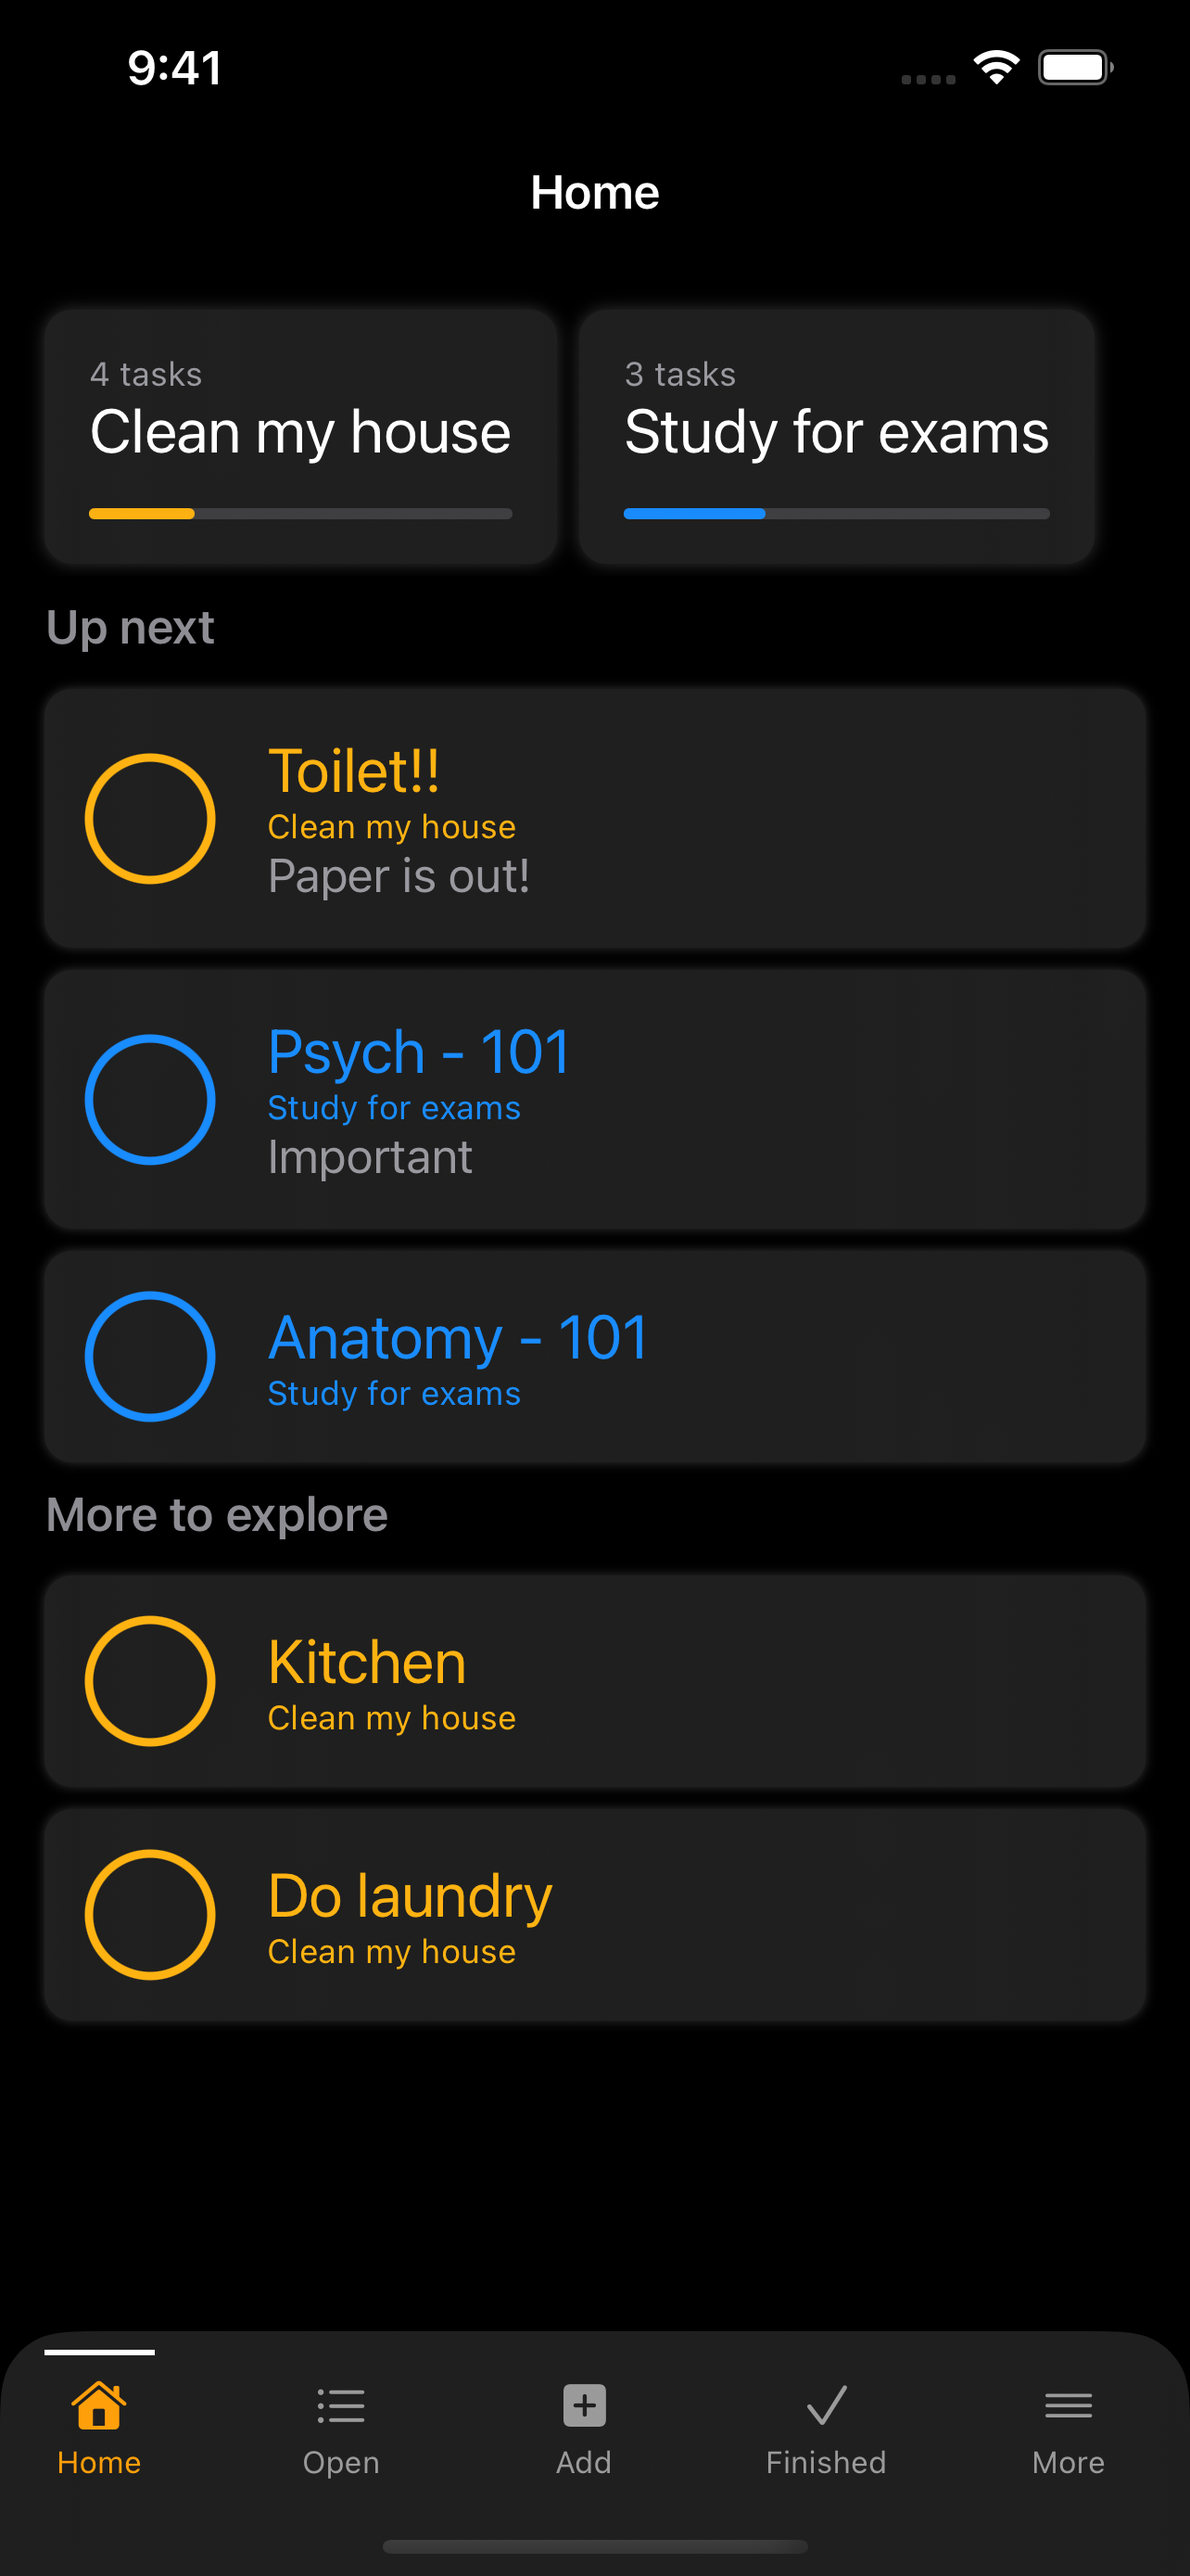
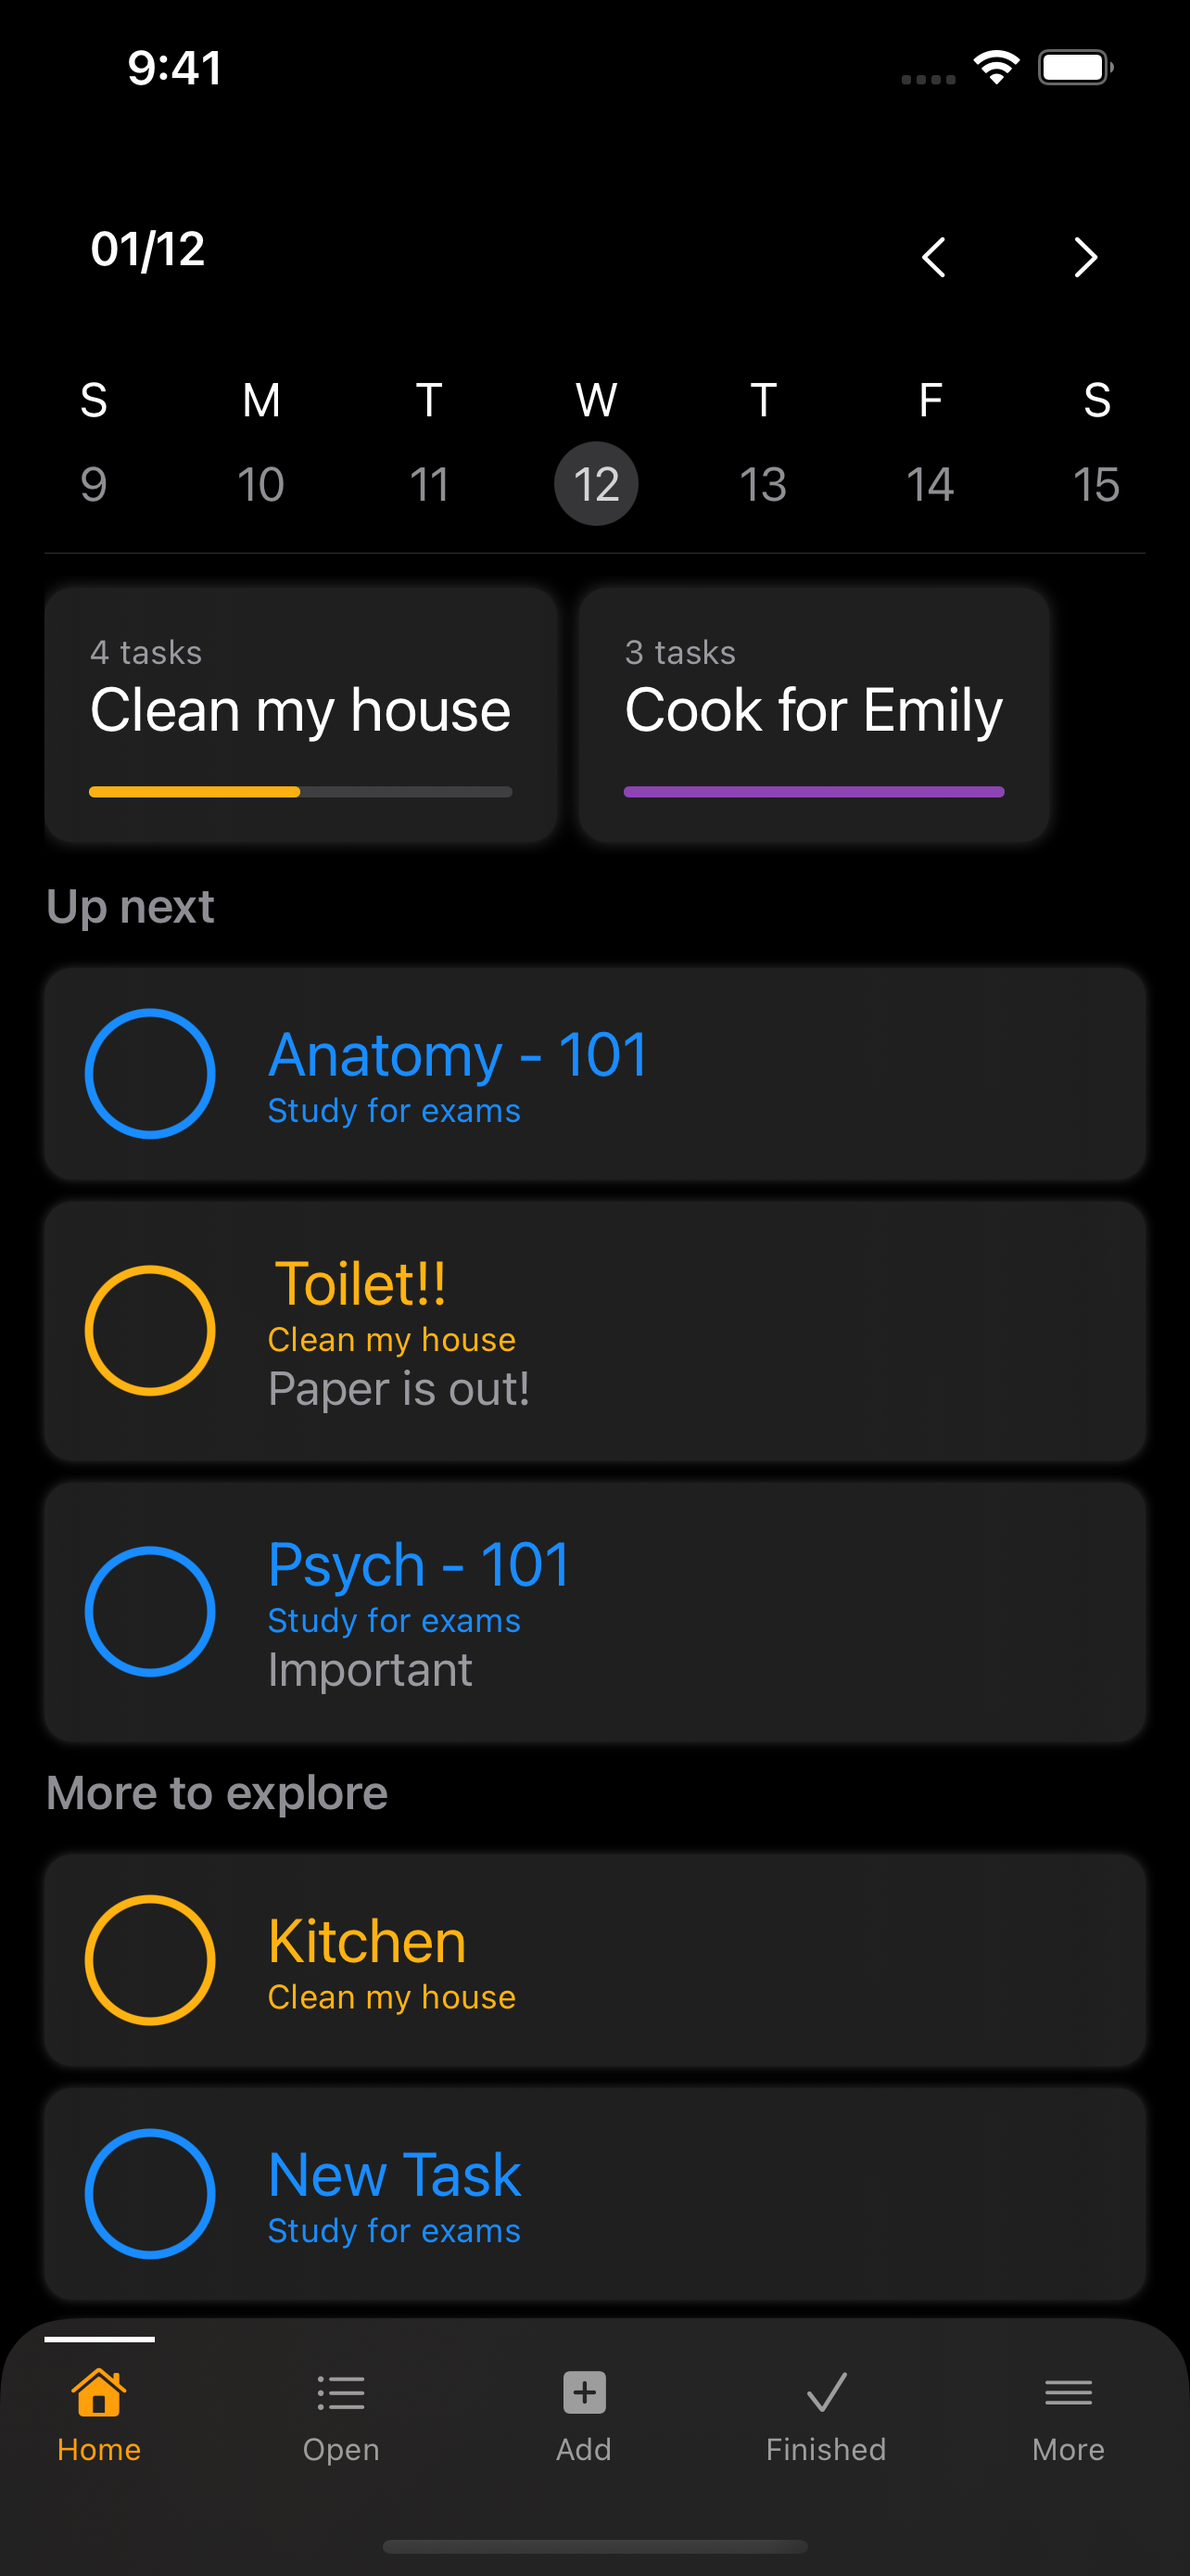
change v2.0.0

diff --git a/_pages/changelog.md b/_pages/changelog.md
@@ -11,16 +11,16 @@ Check out the timeline. We're constantly updating it.
 
 ### `Latest`
 
-## **Version 1.1.2**
-New security measure updated. Now users can select app locking with device passwords or Biometrics.
+## **Version 2.0.0**
+Calendar added. Now users can select a date and app will shows what users have on that date.
 
 #### What's New
-- Biometrics and device password authentication added
-- Seperated View for better experience
+- Calendar added
+- Better Dark mode
 
 #### Bug Fixes
 - Improved user experience.
-
+- Date error fixed
 
 
 ### `Initial Release`
@@ -52,6 +52,14 @@ Minor bug fixes regarding Dark Mode
 - Weird behavior when tapping Dark mode fixed
 
 <br>
+## **Version 1.1.2**
+New security measure updated. Now users can select app locking with device passwords or Biometrics.
 
+#### What's New
+- Biometrics and device password authentication added
+- Seperated View for better experience
+
+#### Bug Fixes
+- Improved user experience.
 ________
 <br>
